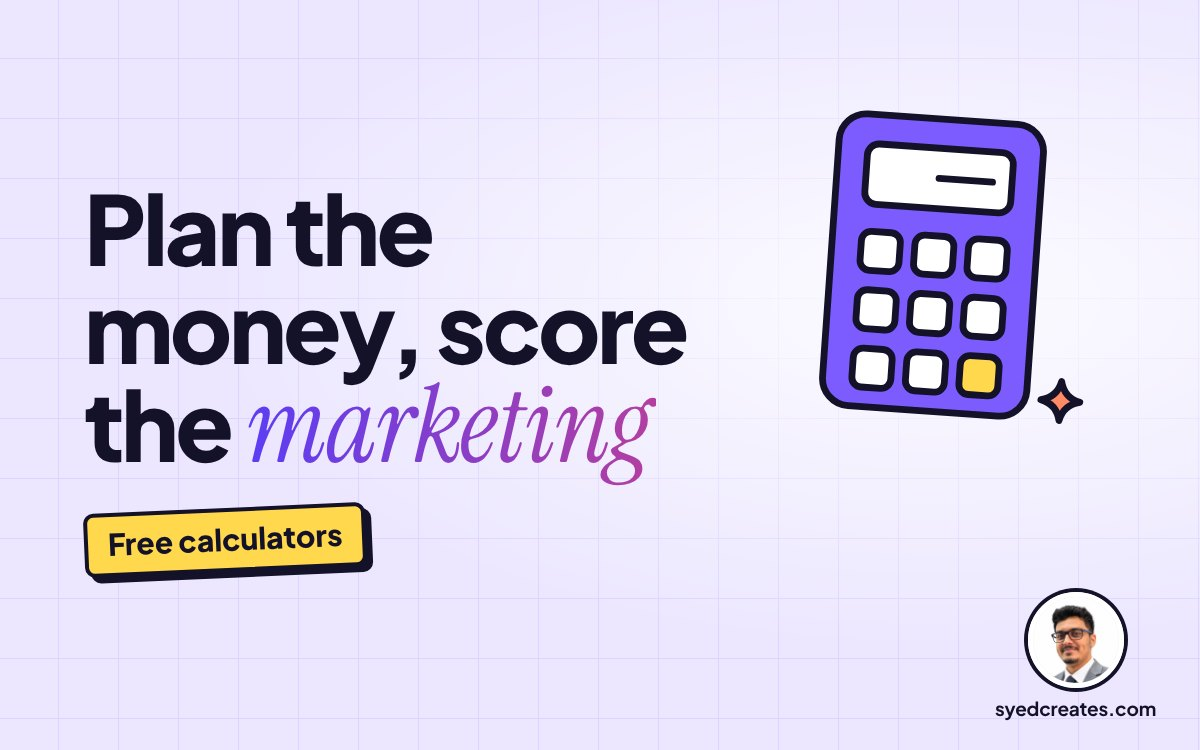
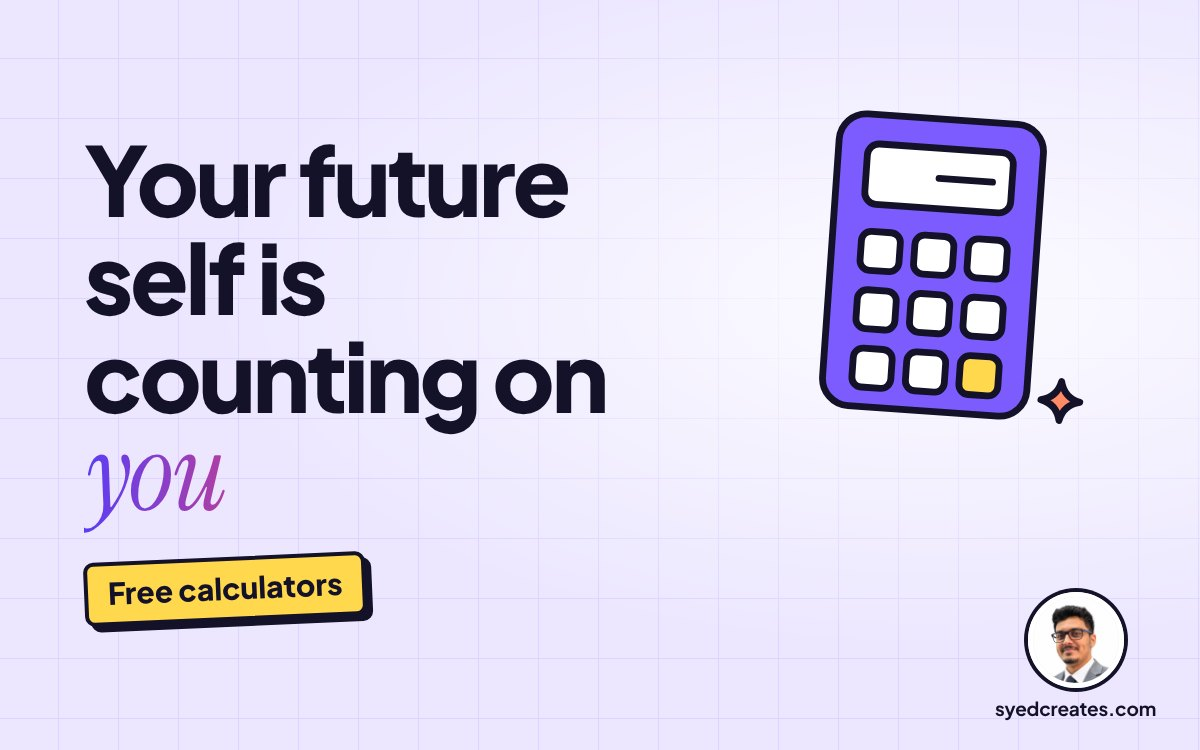
feat: motivational H1 on /calculator, cover re-rendered to match
Claude-Session: https://claude.ai/code/session_01Pb4pThnf9aeXSZQ6XdoFGm

Changed region(s): [[0.0617, 0.184, 0.5858, 0.8587]]

diff --git a/site/calculator.html b/site/calculator.html
@@ -19,7 +19,7 @@
 <meta property="og:image" content="https://syedcreates.com/img/covers/og/calculator.jpg">
 <meta property="og:image:width" content="1200">
 <meta property="og:image:height" content="630">
-<meta property="og:image:alt" content="Plan the money, score the marketing">
+<meta property="og:image:alt" content="Your future self is counting on you">
 <meta name="twitter:card" content="summary_large_image">
 <meta name="twitter:title" content="Free Calculators India: EMI, SIP, FIRE, BMI, Mileage">
 <meta name="twitter:description" content="Free India calculators in one place: loan EMI and prepayment, SIP and mutual fund returns, FIRE, salary growth, BMI, car mileage, Khums and GTM scorecards.">
@@ -103,10 +103,10 @@
 <div>
 <div class="crumbs"><a href="/">Home</a> / Calculators</div>
 <span class="eyebrow">Calculators</span>
-<h1 class="display" style="font-size:clamp(34px,4.6vw,60px)">Plan the money, score the <span class="tg2">marketing</span>.</h1>
+<h1 class="display" style="font-size:clamp(34px,4.6vw,60px)">Your future self is counting on the numbers you run <span class="tg2">today</span>.</h1>
 <p>Every calculator runs in your browser, nothing you type leaves the page, and each one gives you a high fidelity PDF you can keep. Money tools first, GTM scorecards below.</p>
 </div>
-<div class="hub-art has-cv"><img src="/img/covers/calculator.jpg" alt="Plan the money, score the marketing" width="1200" height="750" fetchpriority="high" decoding="async"></div>
+<div class="hub-art has-cv"><img src="/img/covers/calculator.jpg" alt="Your future self is counting on you" width="1200" height="750" fetchpriority="high" decoding="async"></div>
 </div>
 </header>
 <main id="main">

diff --git a/build/covers/config.py b/build/covers/config.py
@@ -66,7 +66,7 @@ COVERS = {
     "fractional-pmm-vs-agency-vs-full-time-hire": ("Fractional PMM vs agency vs", "hire", "Comparison", "scales"),
     "best-gtm-consultants-for-security-startups": ("Choosing a GTM consultant for", "security", "Scorecard", "scales"),
     # Free tools and calculators
-    "calculator": ("Plan the money, score the", "marketing", "Free calculators", "calculator"),
+    "calculator": ("Your future self is counting on", "you", "Free calculators", "calculator"),
     "salary-calculator": ("Where your salary goes in 45", "years", "Salary calculator", "chart"),
     "loan-calculator": ("Know your EMI, close the loan", "sooner", "Loan calculator", "coins"),
     "fire-calculator": ("When can you retire", "early?", "FIRE calculator", "chart"),
